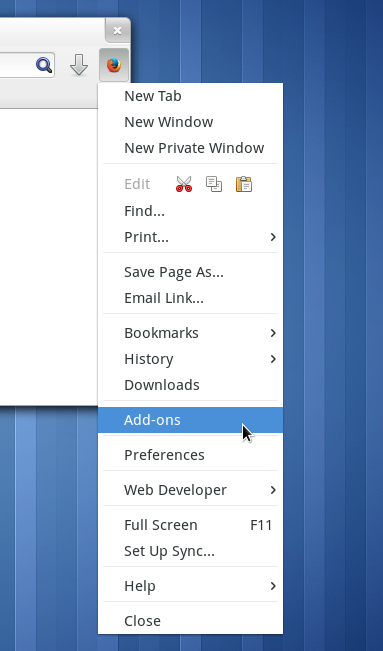
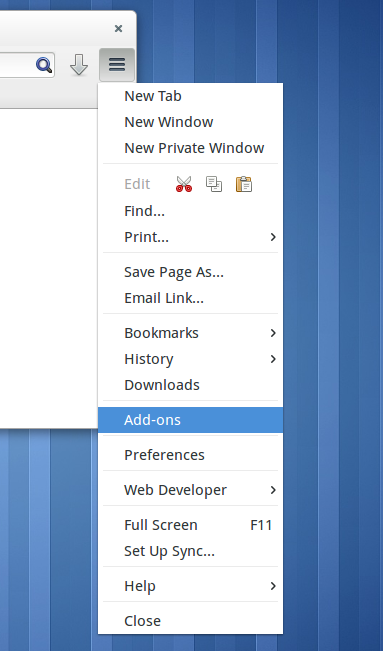
Update screenshots and README.md

diff --git a/README.md b/README.md
@@ -1,12 +1,19 @@
 # FxButton
 
-Change menu and give an opportunity to move "Firefox" button.
+Change menu and give an opportunity to move the Firefox button.
 
-Use left click to open appmenu and middle click to open new tab.
+Please visit extension's page on [addons.mozilla.org](https://addons.mozilla.org/firefox/addon/fxbutton/) for install latest stable version. Also, it is good place for you positive reviews. For post bug reports and feature requests please use [issues page](https://github.com/seleznev/firefox-extension-fxbutton/issues).
 
---
+## Tips and tricks
 
-Please visit extension's page on [addons.mozilla.org](https://addons.mozilla.org/firefox/addon/fxbutton/) for install latest stable version. Also, it is good place for you positive reviews. For post bug reports and feature requests please use [issues page](https://github.com/seleznev/firefox-extension-fxbutton/issues). I read it more often.
+I. **How to change position of the Firefox button?**
+
+1. Install extension.
+2. Right click an empty space of a toolbar, select "Customize".
+3. Drag the button to your favorite place.
+4. Click "Done" in the Customize Toolbar window.
+
+II. **You can use middle click to open new tab.**
 
 ## Screenshot
 
